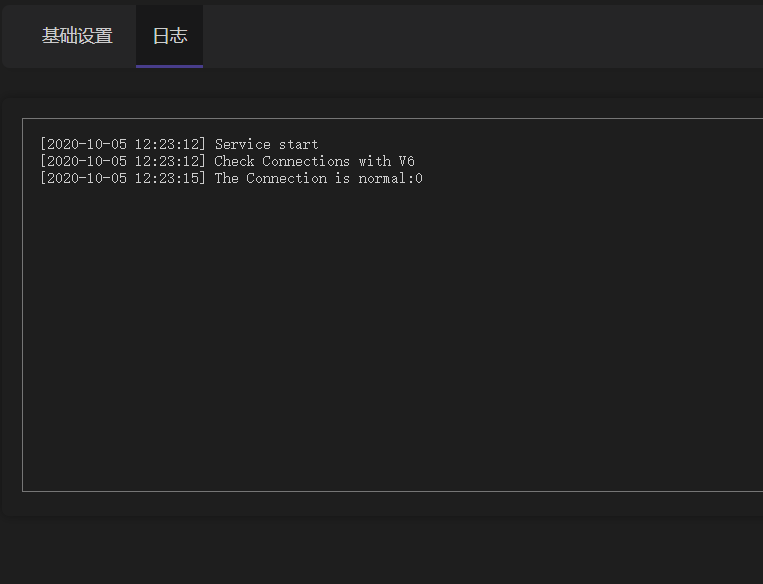
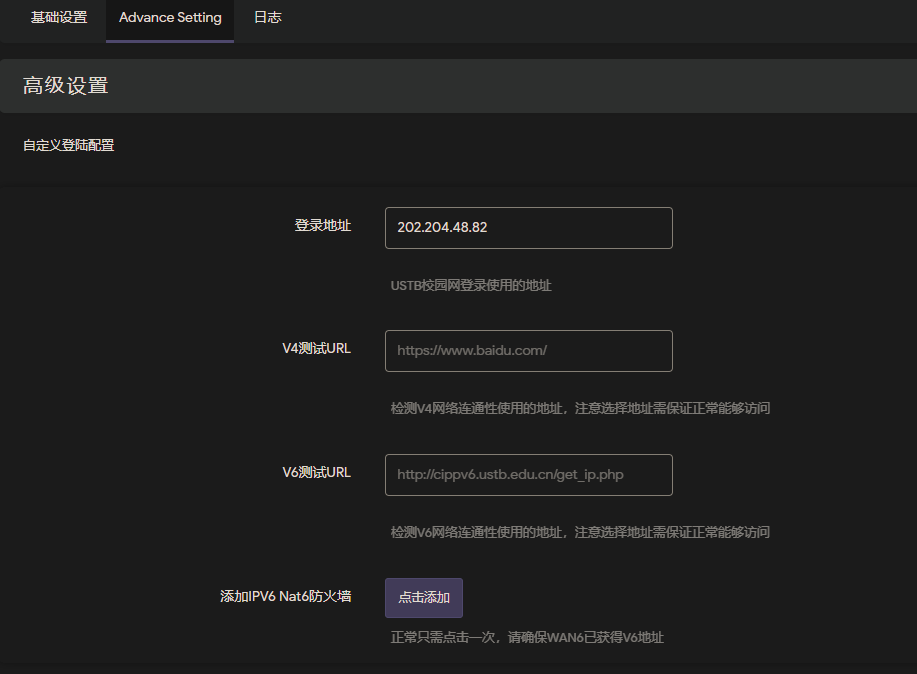
更新图片

diff --git a/README.md b/README.md
@@ -3,7 +3,8 @@
 支持ipv6，支持日志查看
 安装完之后建议重启路由器
 ![主界面](./screenshot/1.png)
-![日志](./screenshot/2.png)
+![高级设置](./screenshot/2.png)
+![日志](./screenshot/3.png)
 #### To do:
 - [x] 基本自动连接
 - [x] 插件状态显示
